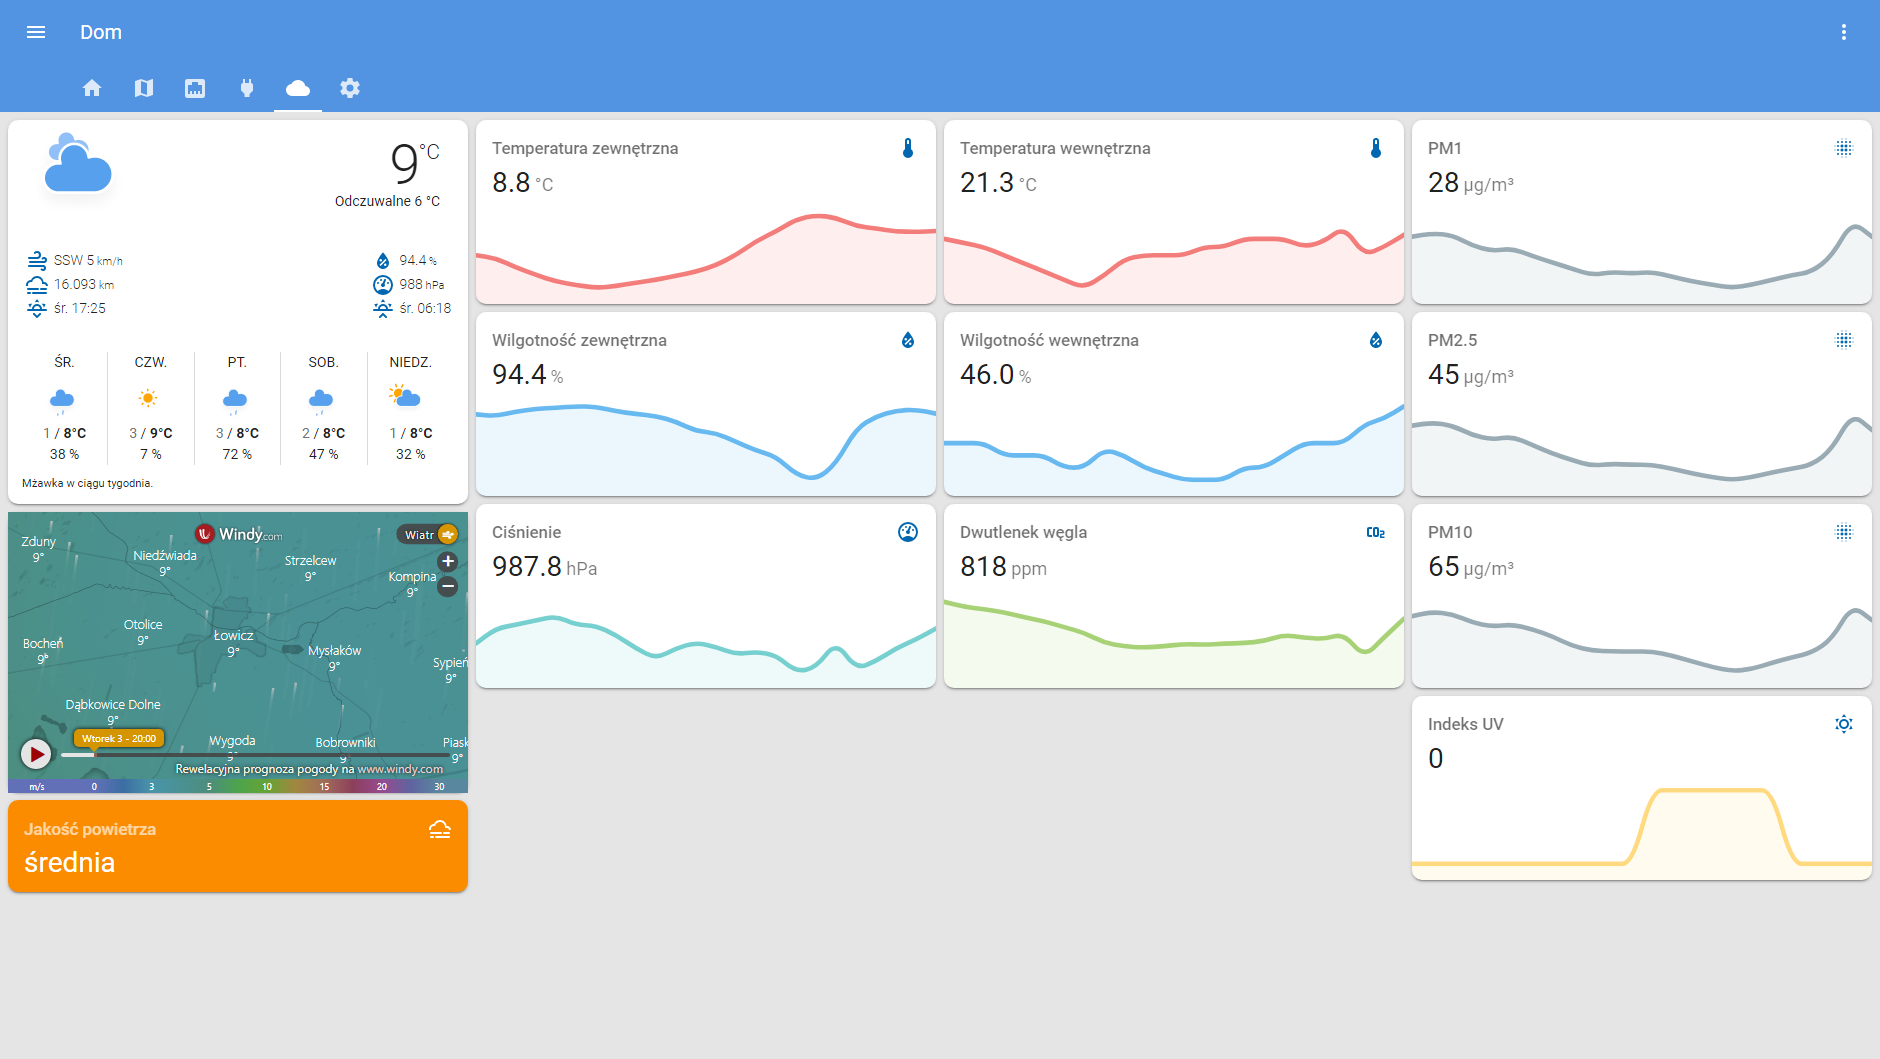
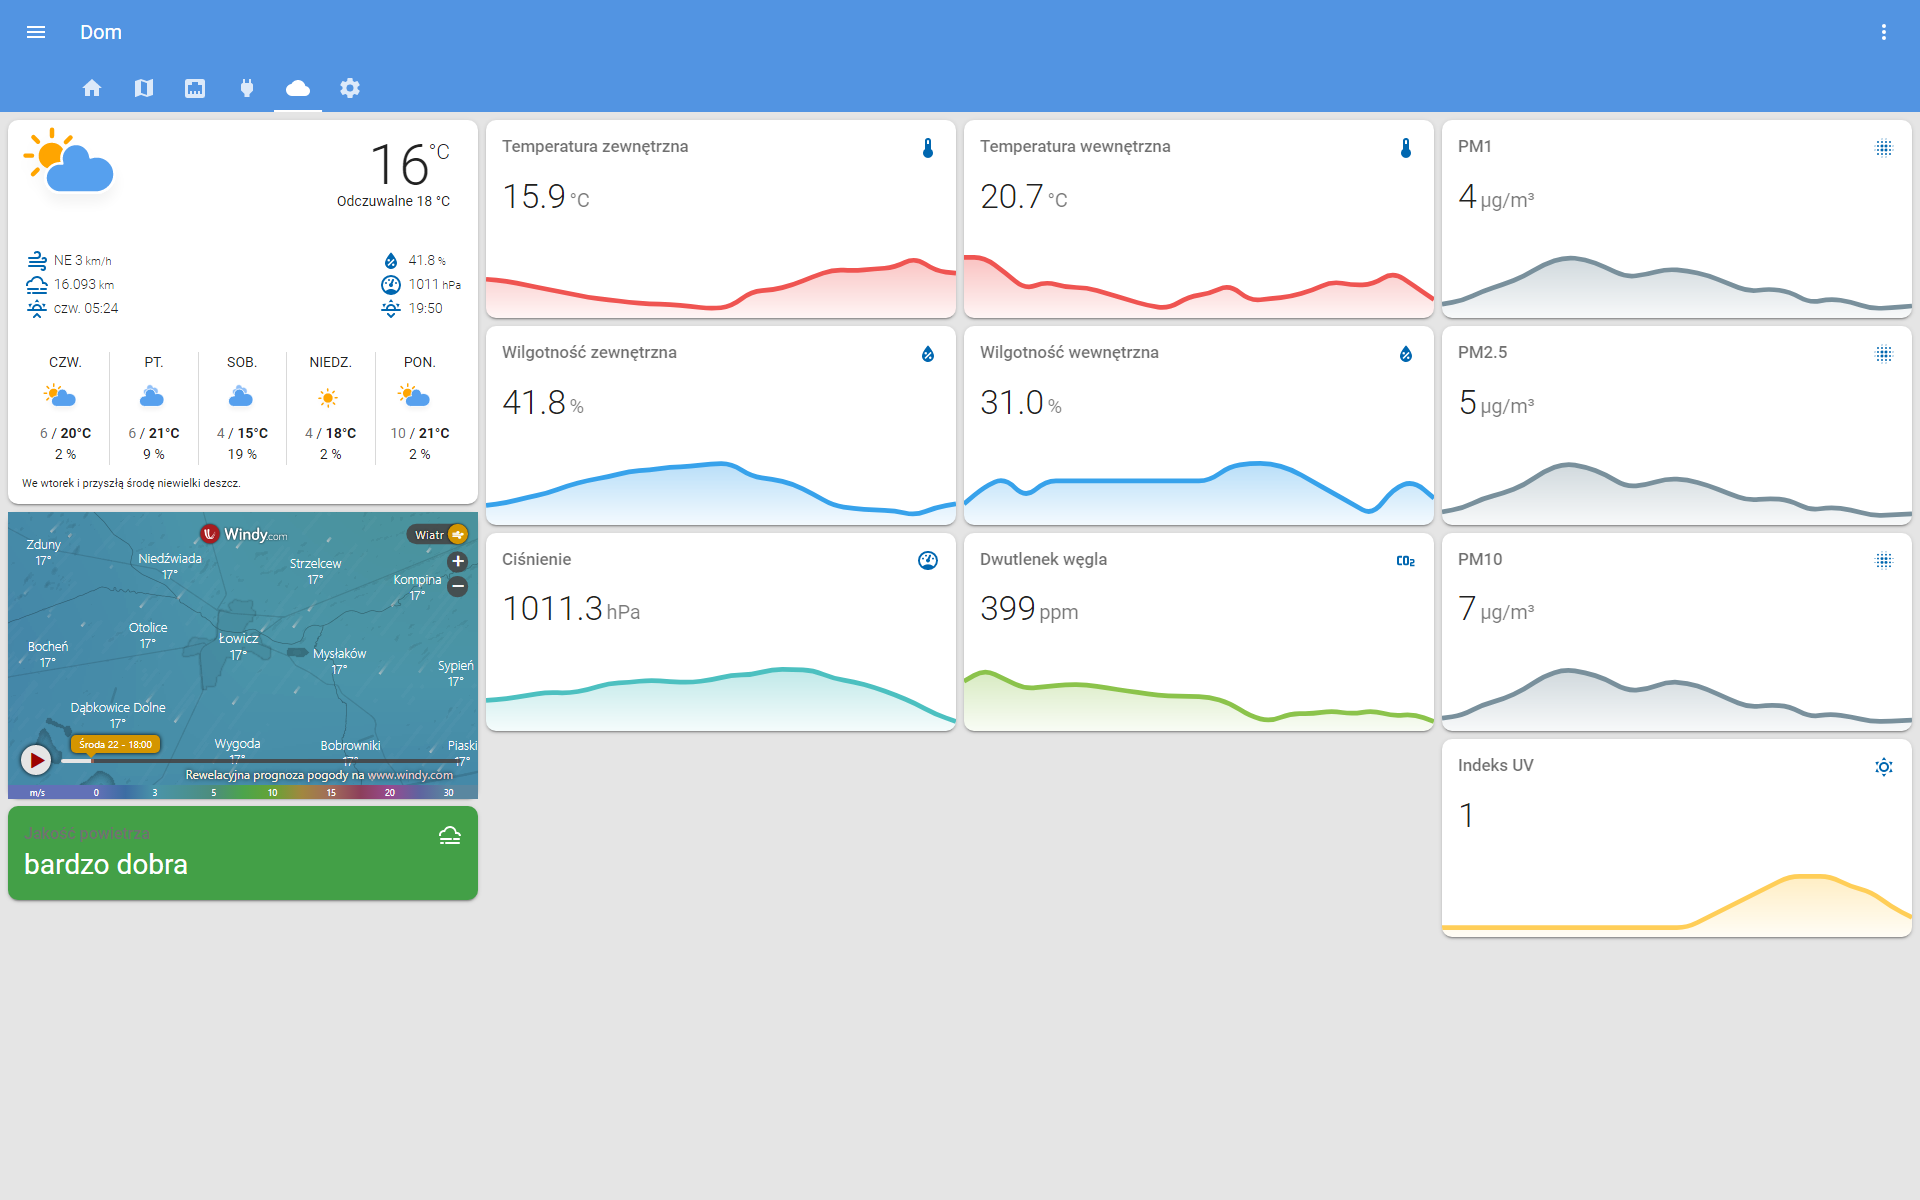
Update Lovelace, readmy and screenshots

diff --git a/README.md b/README.md
@@ -5,7 +5,8 @@
 
 ## Server
 
-* Raspberry Pi 3 [Raspbian Stretch with Python 3.7.2 virtual env]
+* Intel NUC NUC5CPYH [Debian Buster]
+* Home Assistant Supervised installation
 
 ## Z-Wave Devices
 
@@ -37,7 +38,7 @@
 
 ## Sensors
 
-* Wemos D1 mini + MH-Z19B [[Tasmota firmware](https://github.com/arendst/Sonoff-Tasmota)]
+* Wemos D1 mini + MH-Z19B [[ESPHome](https://esphome.io) firmware]
 * [Shelly H&T](https://shelly.cloud/shelly-humidity-and-temperature/) via MQTT
 
 ## Other Integrated Devices
@@ -56,17 +57,15 @@
 * CyberPower DL650ELCD [UPS]
 * Xiaomi DaFang [camera with [custom firmware](https://github.com/EliasKotlyar/Xiaomi-Dafang-Hacks)]
 * Sony Bravia TV (Android TV)
-* Amazon Echo Plus (via Home Assistant Cloud)
+* Amazon Echo Plus/Dot/Show (via Home Assistant Cloud)
 
 ## Home Assistant Custom Components
 
 * [Airly](https://github.com/bieniu/ha-airly)
 * [Alexa Media Player](https://github.com/custom-components/alexa_media_player)
-* [Custom Frontend](https://github.com/home-assistant/home-assistant/pull/10783)
 * [GIOS](https://github.com/bieniu/ha-gios)
 * [HACS](https://github.com/custom-components/hacs)
 * [iPhone Detect](https://github.com/mudape/iphonedetect)
-* [Sony Bravia TV PSK](https://github.com/custom-components/media_player.braviatv_psk)
 
 ## Custom Panels
 
@@ -75,14 +74,12 @@
 ## Lovelace Custom Cards
 
 * [card-mod](https://github.com/thomasloven/lovelace-card-mod)
-* [card-tools](https://github.com/thomasloven/lovelace-card-tools)
 * [bom-weather-card](https://github.com/DavidFW1960/bom-weather-card)
-* [layout-card](https://github.com/thomasloven/lovelace-layout-card)
 * [mini-graph-card](https://github.com/kalkih/mini-graph-card)
 * [mini-media-player](https://github.com/kalkih/mini-media-player)
 * [auto-entities](https://github.com/thomasloven/lovelace-auto-entities)
-* [secondaryinfo-entity-row](https://github.com/MizterB/lovelace-secondaryinfo-entity-row)
-* [vertical-stack-in-card](https://github.com/custom-cards/vertical-stack-in-card)
+* [canary](https://github.com/jcwillox/lovelace-canary)
+* [battery-entity](https://github.com/cbulock/lovelace-battery-entity)
 
 ## AppDaemon
 
